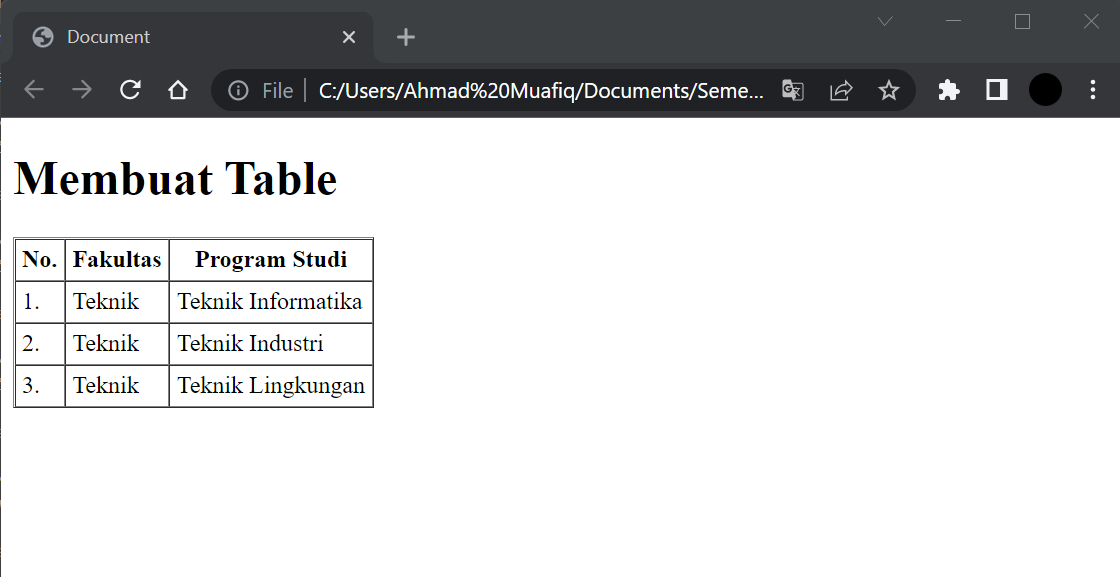
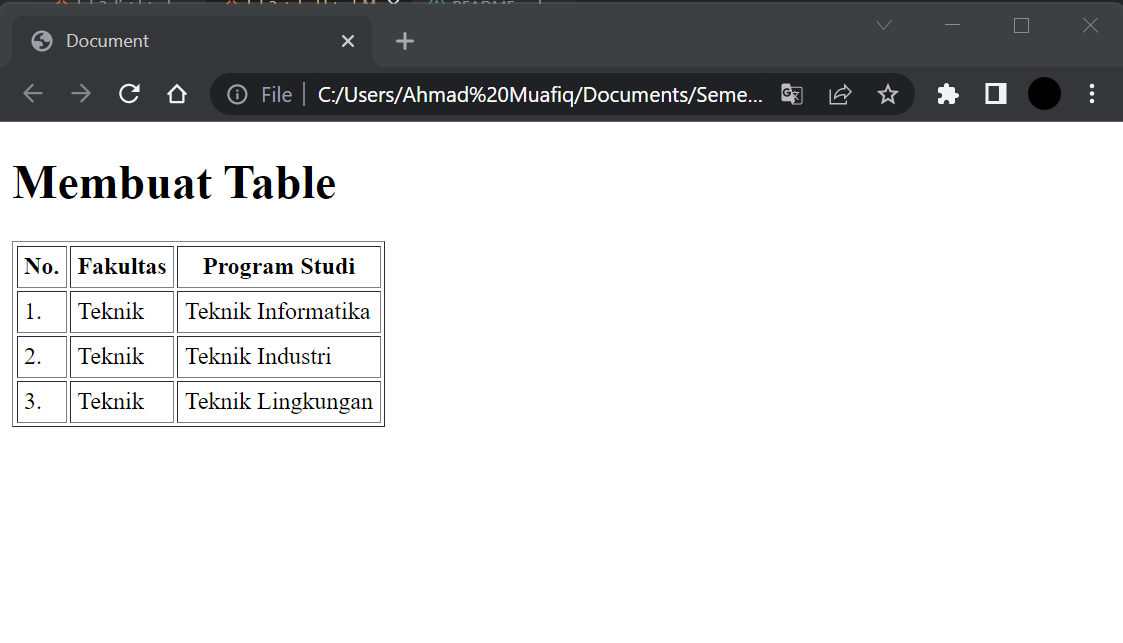
mengatur margin dan padding

diff --git a/README.md b/README.md
@@ -31,3 +31,8 @@ Kelas : TI.20.B.1<br>
 *Berikut adalah contoh membuat list di dalam tabel, berikut tampilanya*
 
 ![Gambar title HTML dasar](pictures/5.png)
+
+6. Mengatur Margin dan Padding.
+*Berikut tampilanya*
+
+![Gambar title HTML dasar](pictures/6.png)
